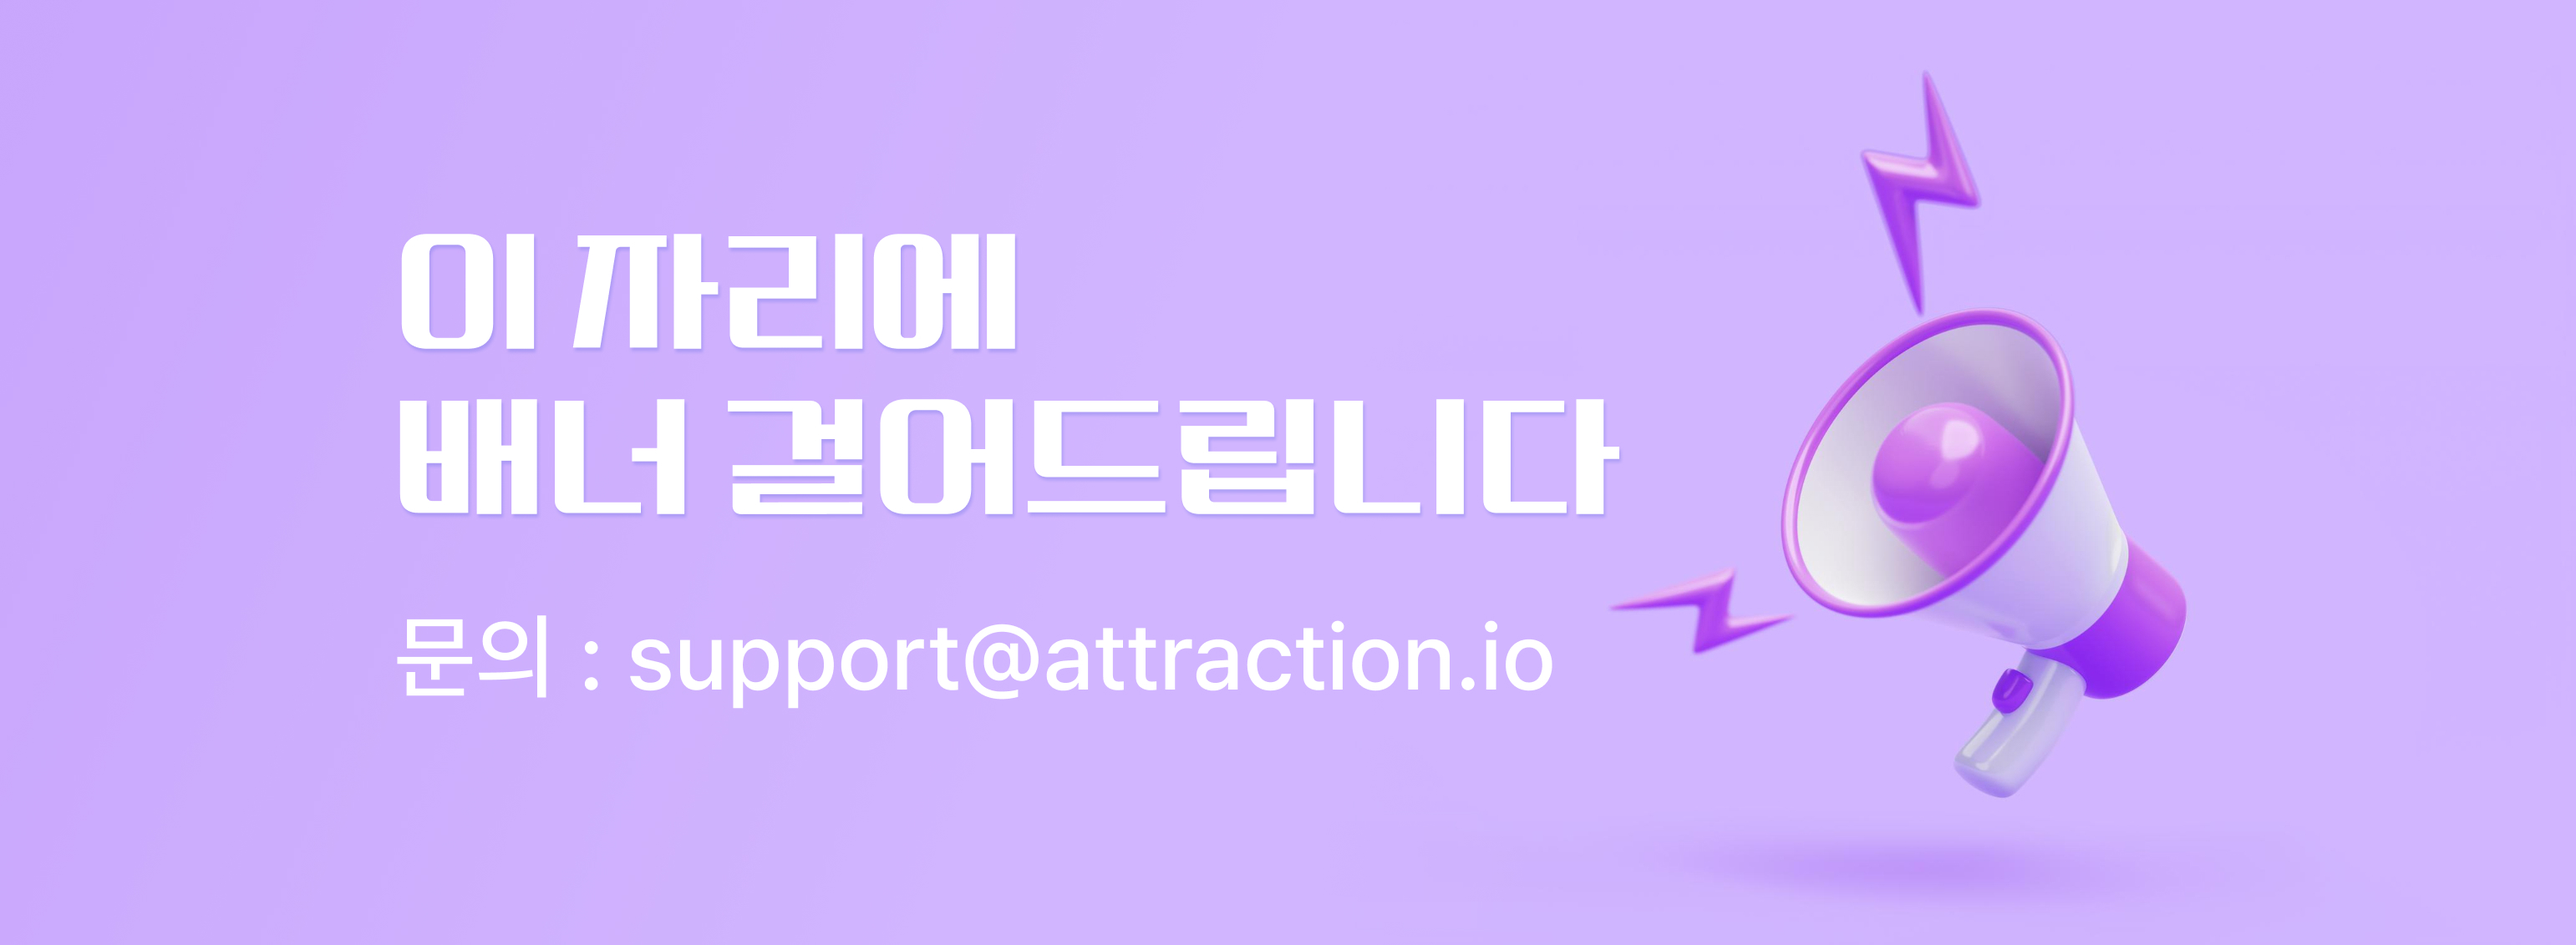
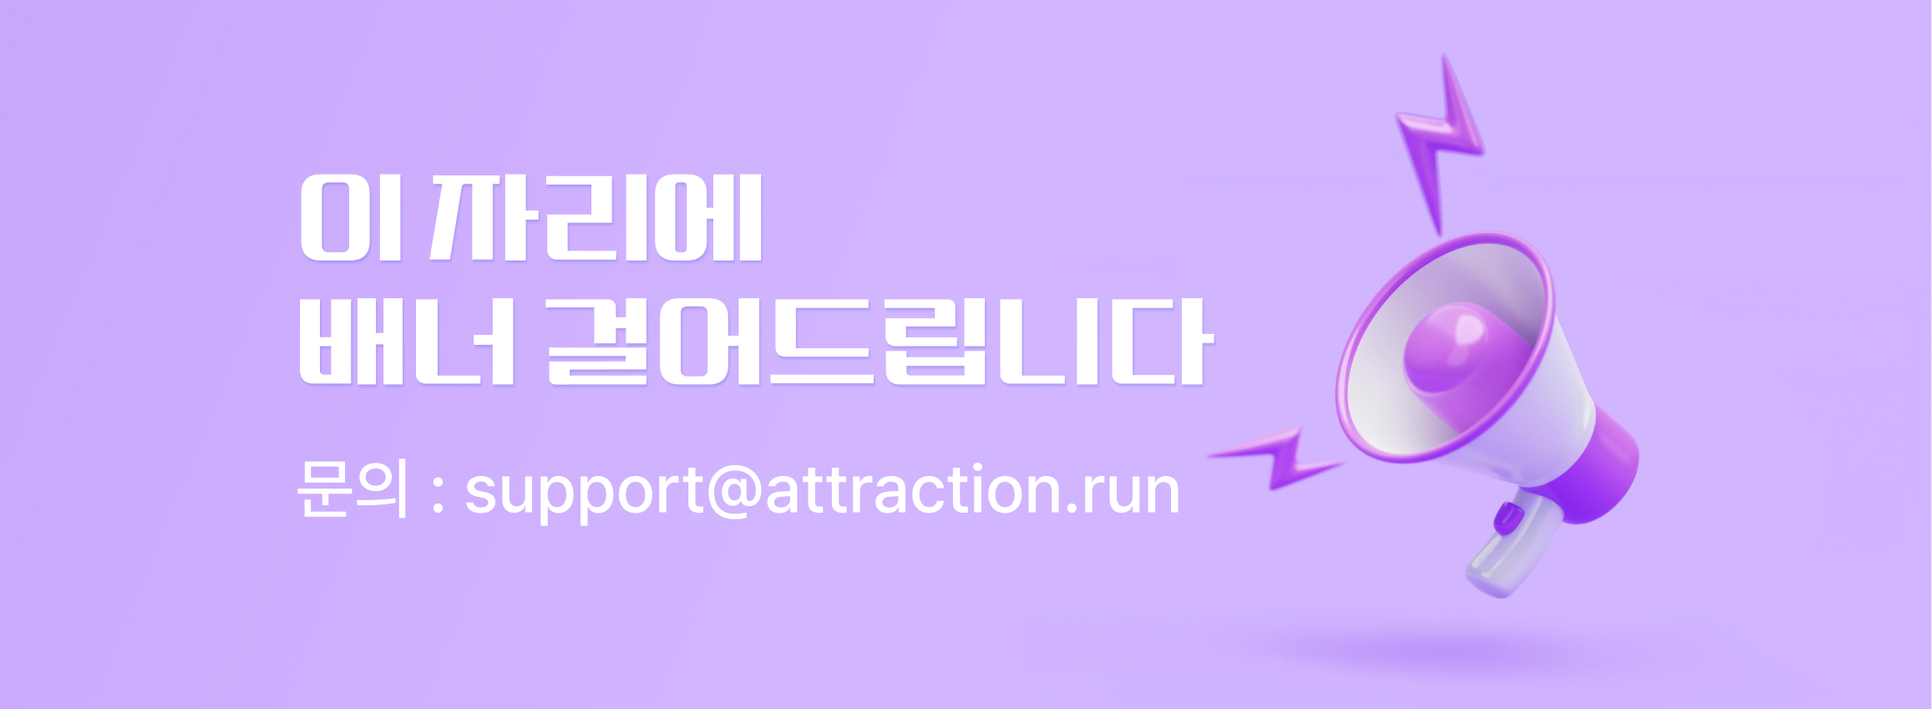
feat: 어드민 이메일 변경사항 반영 (#ATR-410)

diff --git a/apps/service/shared/constant/adminEmail.ts b/apps/service/shared/constant/adminEmail.ts
@@ -1,3 +1,3 @@
-const ADMIN_EMAIL = 'attractionmanager@gmail.com'
+const ADMIN_EMAIL = 'support@attraction.run'
 
 export default ADMIN_EMAIL
